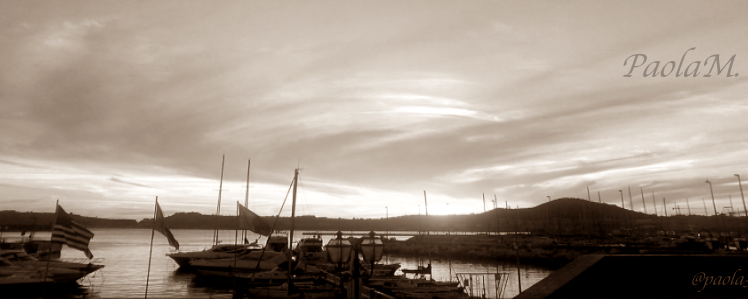
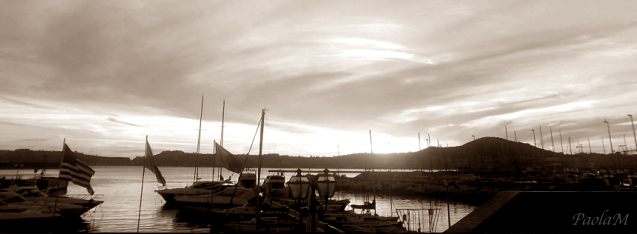
changed size and color of image
signature added

diff --git a/tribute-page/style.css b/tribute-page/style.css
@@ -16,7 +16,7 @@ body {
 
 #image{
   width: 100%;
-  filter: grayscale(0.8);
+
 
 
 }
